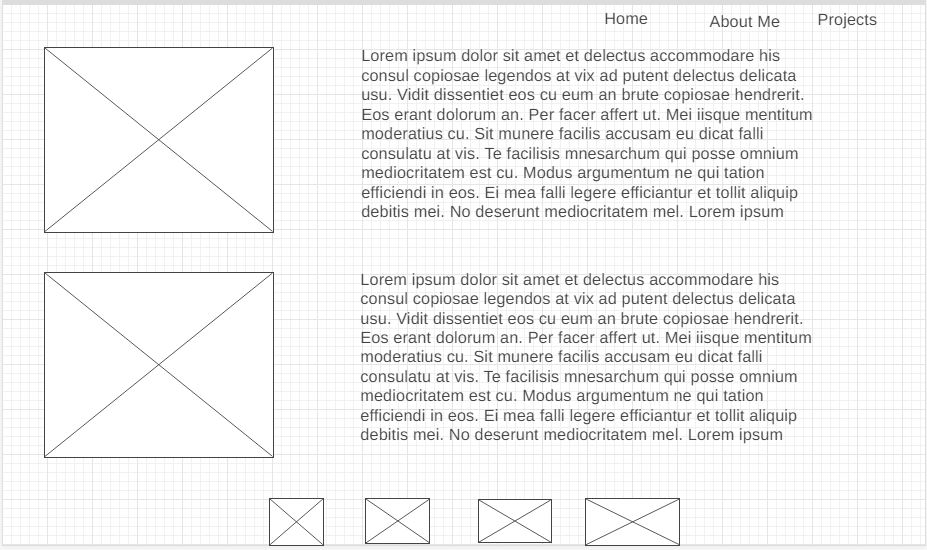
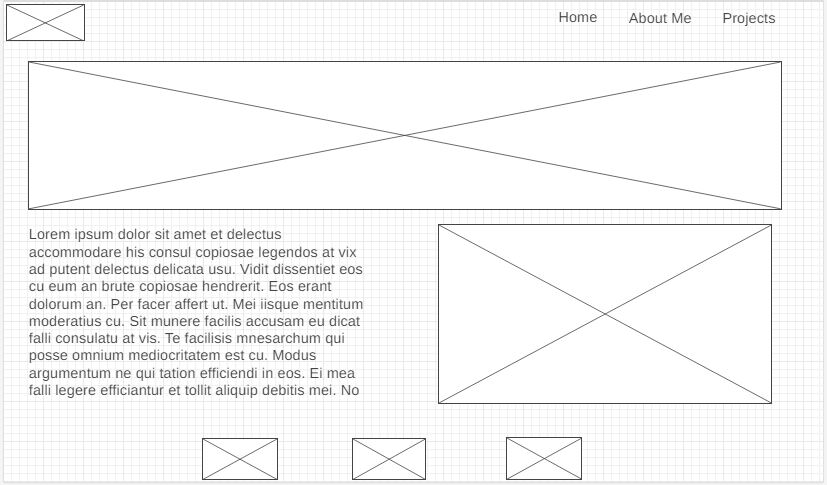
updated my project page wireframe, wrote the html proper and styled my project page

diff --git a/sammyaweportfolio/projects.html b/sammyaweportfolio/projects.html
@@ -4,37 +4,40 @@
     <meta charset="UTF-8">
     <meta name="viewport" content="width=device-width, initial-scale=1.0">
     <title>Awe Samuel Opeoluwa</title>
+    <link rel="stylesheet" href="styles/style.css">
 </head>
 <body>
-    <nav>
-        <a href="index.html">Home</a>
-        <a href="aboutme.html">About Me</a>
-        <a href="projects.html">Projects</a>
-    </nav> 
+    <div id="content">
+        <header>
+            <a id="homeimage" href="index.html">
+                <img class="homeimg" src="images/sammyawelogo.svg" alt="Sammy Awe Logo">
+            </a>
+            <nav>
+                <a href="index.html">Home</a>
+                <a href="aboutme.html">About Me</a>
+                <a href="projects.html">Projects</a>
+            </nav> 
+        </header>
     <div id="projecthero">
         <div id="projectbox">
             <img id="project-img" src="images/portfolioimage1.jpg" alt="buddies closing projects in office">
         </div>
-        <section id="hero-msg">
-            <h1 class="home-title">ABOUT ME
-            </h1>
-            <h2>Over the years, I have perfected the use of these languages;
-                HTML5<br>
-                CSS<br>
-                JAVASCRIPT<br>
-                SASS<br>
-                JQUERY<br>
-                REST<br>
-                APIs<br>
-                REACT<br>
-                FIREBASE<br>
-                GIT<br>
-                I have applied this knowledge and built the websites below:
-            </h2>
-        </section>
+    </div>
+    <main id="project-msg">
+            <p>Over the years, I have perfected the use of these languages;<br>
+                HTML5, CSS, JAVASCRIPT, SASS, JQUERY, REST, APIs, REACT, FIREBASE, GIT.<br>
+                I have applied this knowledge and built the websites below:<br>
+                <a href="https://www.youtube.com/">Youtube</a><br>
+                <a href="https://www.reddit.com/">Reddit</a><br>
+                <a href="https://www.instagram.com/">Instagram</a><br>
+                <a href="https://www.lds.org/">Latter-Day Saints Website</a><br>
+                <a href="https://familysearch.org/">Family Search Website</a>
+            </p>
+                
         <div id="project2hero">
             <img id="project2-img" src="images/porttfolioimage2.jpg" alt="buddy on the hallway">
         </div>
+    </main>
     </div>
             
 

diff --git a/sammyaweportfolio/styles/style.css b/sammyaweportfolio/styles/style.css
@@ -170,7 +170,33 @@ p {
     padding: 60px;
     
 }
-
+#projecthero {
+    display: grid;
+    grid-template-columns: 1fr 3fr 1fr;
+    margin-top: 100px;
+}
+#projectbox {
+    grid-column: 1/4;
+    grid-row: 1/3;
+    z-index: -1;
+}
+#project-img {
+    width: 90%;
+    padding: 55px;
+}
+#project-msg {
+    background-color: #182339;
+    color: #BCD3F2;
+    grid-template-columns: 1fr 1fr;
+    grid-column: 1/2;
+    width: 100%;
+    font-size: x-large;
+}
+#project2hero {
+    grid-column: 2/2;
+    padding: 40px;
+    width: 100%;
+}
 
 
 @media screen and (max-width: 900px) {
